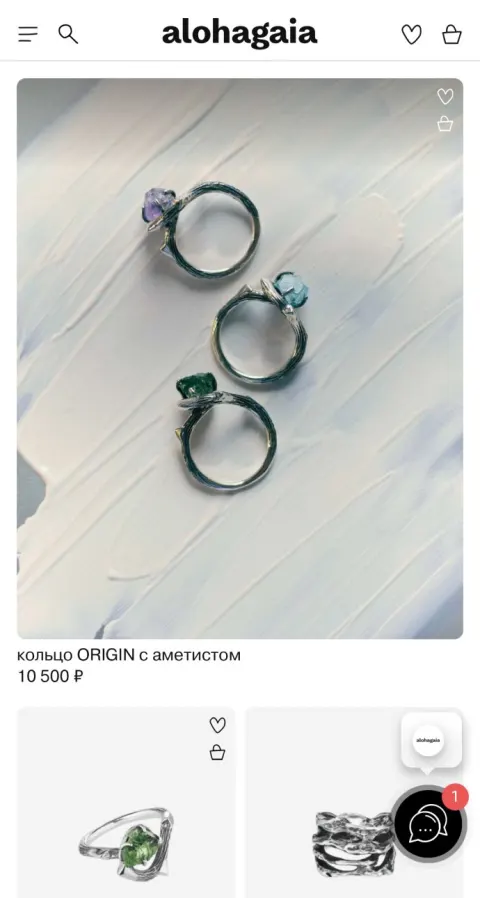
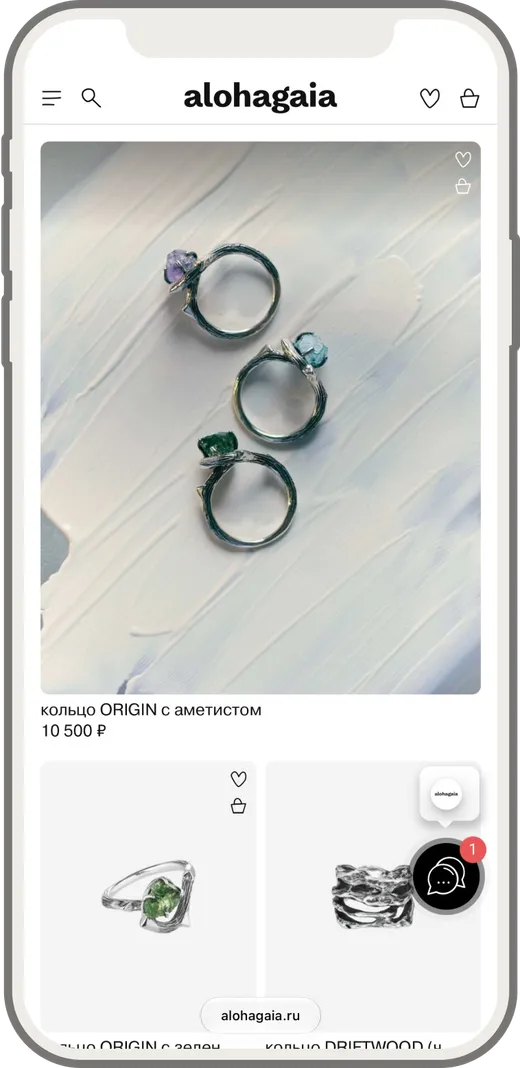
Лендинг InSales: телефоны из макетов целиком, экран не обрезается (dev)

diff --git a/src/styles/tokens.css b/src/styles/tokens.css
@@ -72,8 +72,6 @@
   --radius-card: 20px;
   --radius-btn: 13px;
   --radius-sm: 10px;
-  --radius-phone: 28px; /* рамка телефона в ленте мобильных версий */
-  --phone-frame: #1d1d1f;
 
   /* Типографика: Glober (src/styles/fonts.css) */
   --font: 'Glober', Arial, sans-serif;
@@ -130,7 +128,6 @@
     --sec-dev-done: #1b3a22;
     --sec-marketing-done: #2c3131;
     --wheel-line: #2c3836;
-    --phone-frame: #3a3a3c;
     --shadow-card: none;
     --shadow-pop: 0 0 18px 0 rgba(0, 0, 0, 0.6);
     --shadow-icon: 0 0 5px 0 rgba(0, 0, 0, 0.6);
@@ -178,7 +175,6 @@
   --sec-dev-done: #1b3a22;
   --sec-marketing-done: #2c3131;
   --wheel-line: #2c3836;
-  --phone-frame: #3a3a3c;
   --shadow-card: none;
   --shadow-pop: 0 0 18px 0 rgba(0, 0, 0, 0.6);
   --shadow-icon: 0 0 5px 0 rgba(0, 0, 0, 0.6);

diff --git a/CHANGELOG.md b/CHANGELOG.md
@@ -126,7 +126,7 @@
 
 ### 27.10.2026
 
-- (dev) Лендинг InSales: отдельный блок «Как эти магазины выглядят в телефоне» после кейсов — восемь магазинов в тонкой графитовой рамке телефона (Happy Animal, Duman, Aloha Gaia, Zalina Verkhovskaya, Wizzu, Geekboards, Almatennis, NSOrganic). Лента идёт до краёв карточки, без полосы прокрутки: на компьютере листается стрелками, на телефоне свайпом. Скрины владельца обрезаны по экрану и сжаты в webp ~10–38 КБ (`public/cases/mobile/`). Новые токены `--phone-frame` и `--radius-phone`.
+- (dev) Лендинг InSales: отдельный блок «Как эти магазины выглядят в телефоне» после кейсов — восемь макетов владельца (Happy Animal, Duman, Aloha Gaia, Zalina Verkhovskaya, Wizzu, Geekboards, Almatennis, NSOrganic). Телефон берётся из макета целиком, со своей рамкой и строкой браузера: экран не обрезается, фон вокруг прозрачный — подходит к обеим темам. Лента идёт до краёв карточки, без полосы прокрутки: на компьютере стрелки, на телефоне свайп. Новые макеты — `node scripts/mobile-shots.mjs <папка> id1 id2 …`, результат в `public/cases/mobile/` (webp 19–52 КБ).
 
 ### Дальше
 
